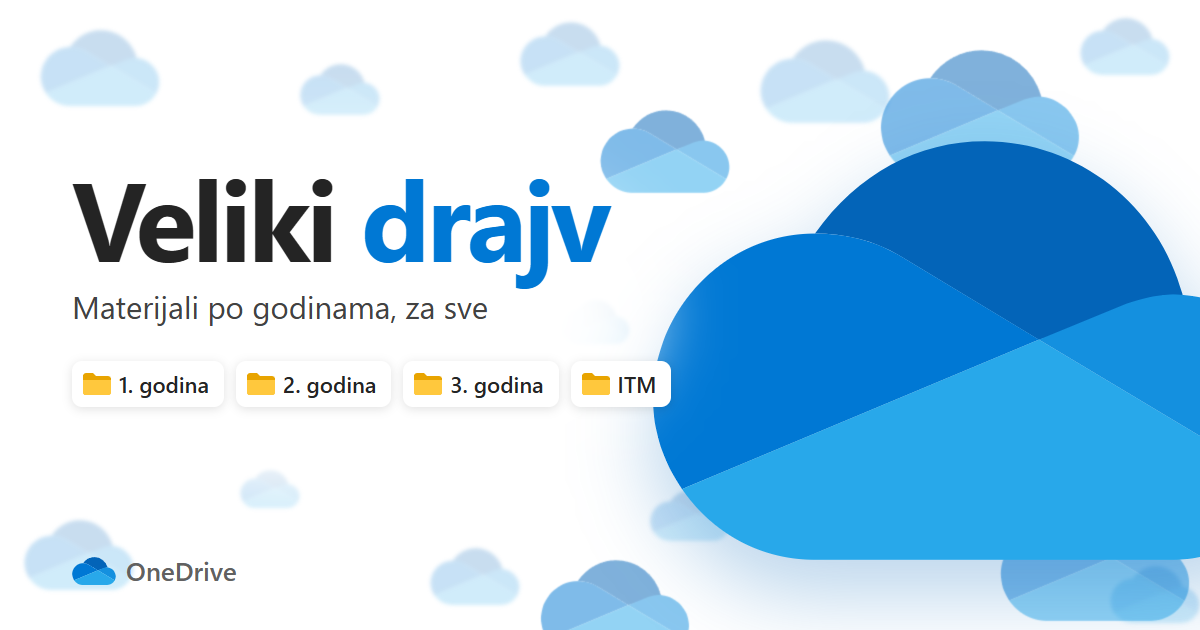
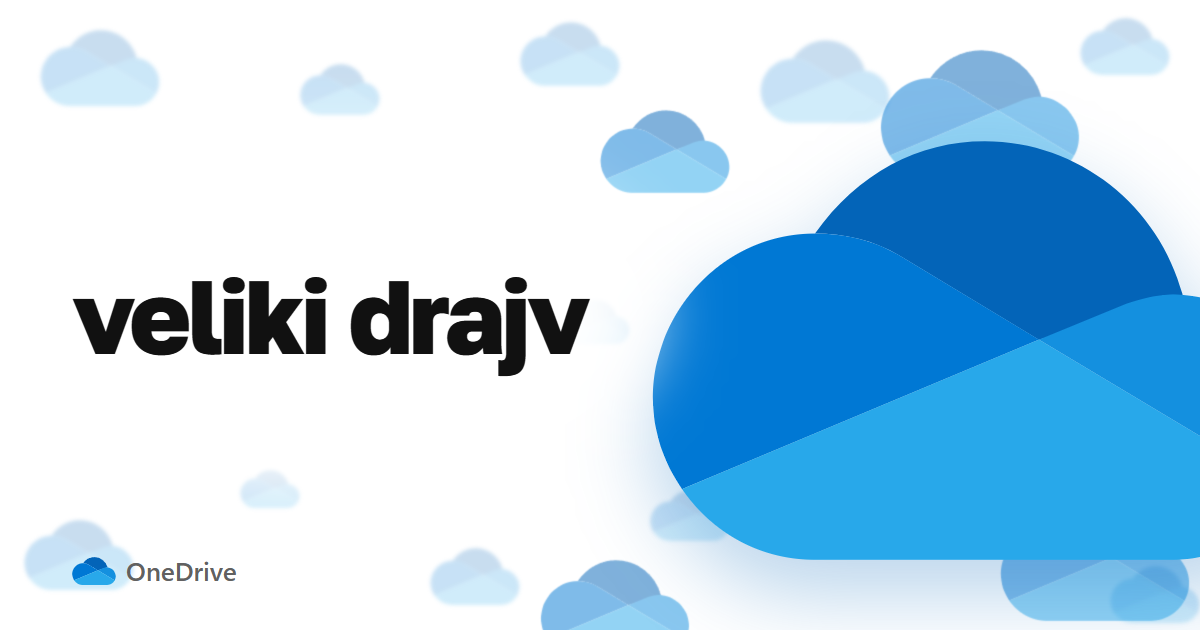
Drive image: bare title

Changed region(s): [[0.0617, 0.2714, 0.5858, 0.6635]]

diff --git a/pages/og-link.html b/pages/og-link.html
@@ -9,6 +9,7 @@
 <html lang="sr">
 <meta charset="utf-8">
 <style>
+@import url(https://fonts.googleapis.com/css2?family=Golos+Text:wght@800&display=block);
 @font-face { font-family: Masinci; src: url(https://masinci.org/fontovi/Masinci-Regular.woff2); }
 @font-face { font-family: RobotoMono; src: url(https://masinci.org/fontovi/RobotoMono-Regular.woff2); }
 html, body { margin: 0; width: 1200px; height: 630px; overflow: hidden; }
@@ -16,7 +17,7 @@ section { display: none; position: relative; width: 1200px; height: 630px; overf
 section:target { display: block; }
 
 /* Veliki drajv: a white sky of OneDrive's clouds, one big one near on the right, the far ones small, faint and soft;
-   the words on the left, the drive's folders under them. */
+   the name on the left, in the middle of the height (Golos Text, from Google Fonts). */
 #drajv { background: #fff; font-family: "Segoe UI", sans-serif; color: #242424; text-align: left; }
 #drajv .c { position: absolute; }
 #drajv .far { opacity: .22; filter: blur(2px); }
@@ -24,12 +25,7 @@ section:target { display: block; }
 #drajv .big { filter: drop-shadow(0 34px 40px rgb(3 100 184 / .28)); }
 /* A white haze behind the words, so the clouds behind them don't fight them. */
 #drajv .haze { position: absolute; left: 10px; width: 640px; top: 150px; height: 330px; border-radius: 50%; background: #fff; filter: blur(34px); }
-#drajv .tx { position: absolute; left: 72px; top: 160px; }
-#drajv h1 { margin: 0; font-size: 112px; font-weight: 700; letter-spacing: -4px; line-height: 1; }
-#drajv h1 span { color: #0078d4; }
-#drajv p { margin: 14px 0 0; font-size: 31px; color: #424242; }
-#drajv ul { display: flex; gap: 12px; margin: 34px 0 0; padding: 0; list-style: none; }
-#drajv li { display: flex; align-items: center; gap: 8px; padding: 8px 15px 8px 11px; border-radius: 10px; background: #fff; box-shadow: 0 2px 10px rgb(0 0 0 / .12); font-size: 22px; font-weight: 600; }
+#drajv h1 { position: absolute; left: 72px; top: 50%; margin: 0; transform: translateY(-50%); font: 800 104px/1 "Golos Text", sans-serif; letter-spacing: -4px; color: #111; }
 #drajv .od { position: absolute; left: 72px; bottom: 42px; display: flex; align-items: center; gap: 10px; font-size: 26px; font-weight: 600; color: #616161; }
 
 /* Webmail: RainLoop's sign-in, on its grey of circles. */
@@ -98,11 +94,7 @@ section:target { display: block; }
   <svg class="c mid" style="left:540px;top:560px;width:150px;height:95px"><use href="#od"/></svg>
   <svg class="c big" style="left:650px;top:140px;width:660px;height:420px"><use href="#od"/></svg>
   <div class="haze"></div>
-  <div class="tx">
-    <h1>Veliki <span>drajv</span></h1>
-    <p>Materijali po godinama, za sve</p>
-    <ul><li><svg width="28" height="22" viewBox="0 0 28 22"><path fill="#e8a400" d="M0 3a3 3 0 0 1 3-3h7l3 3h12a3 3 0 0 1 3 3v13a3 3 0 0 1-3 3H3a3 3 0 0 1-3-3z"/><path fill="#ffc83d" d="M0 7h28v12a3 3 0 0 1-3 3H3a3 3 0 0 1-3-3z"/></svg>1. godina</li><li><svg width="28" height="22" viewBox="0 0 28 22"><path fill="#e8a400" d="M0 3a3 3 0 0 1 3-3h7l3 3h12a3 3 0 0 1 3 3v13a3 3 0 0 1-3 3H3a3 3 0 0 1-3-3z"/><path fill="#ffc83d" d="M0 7h28v12a3 3 0 0 1-3 3H3a3 3 0 0 1-3-3z"/></svg>2. godina</li><li><svg width="28" height="22" viewBox="0 0 28 22"><path fill="#e8a400" d="M0 3a3 3 0 0 1 3-3h7l3 3h12a3 3 0 0 1 3 3v13a3 3 0 0 1-3 3H3a3 3 0 0 1-3-3z"/><path fill="#ffc83d" d="M0 7h28v12a3 3 0 0 1-3 3H3a3 3 0 0 1-3-3z"/></svg>3. godina</li><li><svg width="28" height="22" viewBox="0 0 28 22"><path fill="#e8a400" d="M0 3a3 3 0 0 1 3-3h7l3 3h12a3 3 0 0 1 3 3v13a3 3 0 0 1-3 3H3a3 3 0 0 1-3-3z"/><path fill="#ffc83d" d="M0 7h28v12a3 3 0 0 1-3 3H3a3 3 0 0 1-3-3z"/></svg>ITM</li></ul>
-  </div>
+  <h1>veliki drajv</h1>
   <div class="od"><svg width="44" height="28"><use href="#od"/></svg>OneDrive</div>
 </section>
 

diff --git a/verzije.md b/verzije.md
@@ -36,7 +36,7 @@ Sajtovi deset katedri su u arhivi, a strane sa cent-a izgledaju kao na cent-u.
   dugmići na dnu strane Moji predmeti više ne pokrivaju pola spiska.
 - 277 **Original je dugme** ispod posta, pored `Sve objave`, sa imenom sajta na kom je objavljen (`Original na
   ie.mas.bg.ac.rs`), umesto malog linka pored datuma.
-- 280, 282–283 [novo] **Izdvojeno na strani Linkovi:** Veliki drajv, studenti.mas, studentski webmail, Predmeti,
+- 280, 282–284 [novo] **Izdvojeno na strani Linkovi:** Veliki drajv, studenti.mas, studentski webmail, Predmeti,
   Mašinci i Knjiga utisaka, na vrhu, kao kartice sa slikom. Tu su i studentske organizacije (Drumska strela,
   Beoavia, Robotoid), u delu `Studenti`, i Biblioteka fakulteta.
 - 251, 253 [novo] **Svaki smer ima svoju ikonicu** na početnoj i na strani smera, umesto fascikle.
